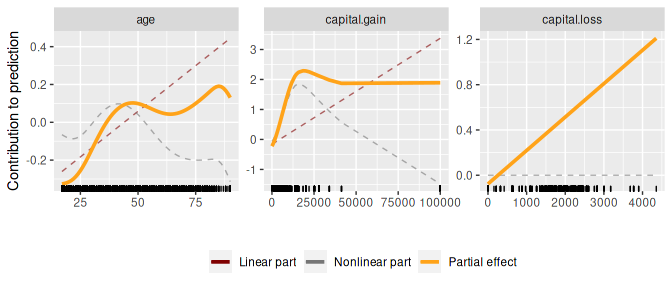
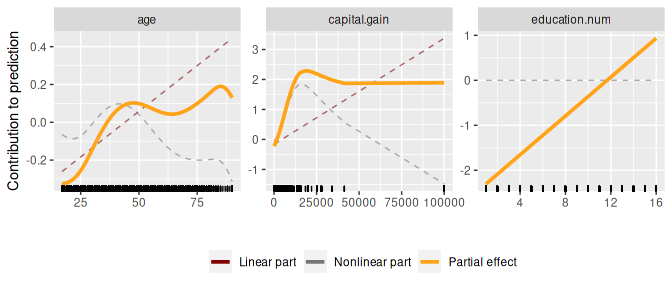
update README

diff --git a/README.md b/README.md
@@ -8,9 +8,9 @@
 ``` r
 # Use adult task from OpenML:
 task = tsk("oml", task_id = 7592)
-#> INFO  [15:28:48.995] Retrieving JSON {url: https://www.openml.org/api/v1/json/task/7592, authenticated: FALSE}
-#> INFO  [15:28:49.239] Retrieving JSON {url: https://www.openml.org/api/v1/json/data/1590, authenticated: FALSE}
-#> INFO  [15:28:49.311] Retrieving ARFF {url: https://www.openml.org/data/v1/download/1595261/adult.arff, authenticated: FALSE}
+#> INFO  [10:41:34.267] Retrieving JSON {url: https://www.openml.org/api/v1/json/task/7592, authenticated: FALSE}
+#> INFO  [10:41:34.461] Retrieving JSON {url: https://www.openml.org/api/v1/json/data/1590, authenticated: FALSE}
+#> INFO  [10:41:34.541] Retrieving ARFF {url: https://www.openml.org/data/v1/download/1595261/adult.arff, authenticated: FALSE}
 
 # Remove rows with missings:
 task$filter(which(complete.cases(task$data())))
@@ -28,7 +28,7 @@ cboost$train(task)
 #>  3750/50000   risk = 0.36  minutes = 0   oob_risk = 0.35   
 #> 
 #> 
-#> Train 4536 iterations in 17 Seconds.
+#> Train 4536 iterations in 15 Seconds.
 #> Final risk based on the train set: 0.36
 #> 
 #>     1/50000   risk = 0.36  minutes = 0   oob_risk = 0.35   
@@ -39,31 +39,31 @@ cboost$train(task)
 #> 
 #> Start risk: 0.3533  test: 0.3413 
 #> Tree 1: train risk: 0.3533 test risk: 0.3413 time: 0 Min. patience: 0
-#> Tree 2: train risk: 0.3533 test risk: 0.3413 time: 0.01 Min. patience: 0
+#> Tree 2: train risk: 0.3533 test risk: 0.3413 time: 0 Min. patience: 0
 #> Tree 3: train risk: 0.3533 test risk: 0.3413 time: 0.01 Min. patience: 0
-#> Tree 4: train risk: 0.3533 test risk: 0.3413 time: 0.02 Min. patience: 0
+#> Tree 4: train risk: 0.3533 test risk: 0.3413 time: 0.01 Min. patience: 0
 #> Tree 5: train risk: 0.3533 test risk: 0.3413 time: 0.02 Min. patience: 0
 #> Tree 6: train risk: 0.3533 test risk: 0.3413 time: 0.02 Min. patience: 0
 #> Tree 7: train risk: 0.3533 test risk: 0.3413 time: 0.03 Min. patience: 0
-#> Tree 8: train risk: 0.3533 test risk: 0.3413 time: 0.04 Min. patience: 0
-#> Tree 9: train risk: 0.3533 test risk: 0.3413 time: 0.04 Min. patience: 0
+#> Tree 8: train risk: 0.3533 test risk: 0.3413 time: 0.03 Min. patience: 0
+#> Tree 9: train risk: 0.3533 test risk: 0.3413 time: 0.03 Min. patience: 0
 #> Tree 10: train risk: 0.3533 test risk: 0.3413 time: 0.04 Min. patience: 0
-#> Tree 11: train risk: 0.3533 test risk: 0.3413 time: 0.05 Min. patience: 0
+#> Tree 11: train risk: 0.3533 test risk: 0.3413 time: 0.04 Min. patience: 0
 #> Tree 12: train risk: 0.3533 test risk: 0.3413 time: 0.05 Min. patience: 0
 #> Tree 13: train risk: 0.3533 test risk: 0.3413 time: 0.05 Min. patience: 0
-#> Tree 14: train risk: 0.3533 test risk: 0.3413 time: 0.06 Min. patience: 0
+#> Tree 14: train risk: 0.3533 test risk: 0.3413 time: 0.05 Min. patience: 0
 #> Tree 15: train risk: 0.3533 test risk: 0.3413 time: 0.06 Min. patience: 0
-#> Tree 16: train risk: 0.3533 test risk: 0.3413 time: 0.07 Min. patience: 0
-#> Tree 17: train risk: 0.3533 test risk: 0.3413 time: 0.07 Min. patience: 0
-#> Tree 18: train risk: 0.3533 test risk: 0.3413 time: 0.08 Min. patience: 0
-#> Tree 19: train risk: 0.3533 test risk: 0.3413 time: 0.08 Min. patience: 0
-#> Tree 20: train risk: 0.3534 test risk: 0.3413 time: 0.09 Min. patience: 0
-#> Tree 21: train risk: 0.3534 test risk: 0.3413 time: 0.09 Min. patience: 0
-#> Tree 22: train risk: 0.3534 test risk: 0.3413 time: 0.09 Min. patience: 0
-#> Tree 23: train risk: 0.3534 test risk: 0.3413 time: 0.1 Min. patience: 0
-#> Tree 24: train risk: 0.3534 test risk: 0.3413 time: 0.1 Min. patience: 0
-#> Tree 25: train risk: 0.3534 test risk: 0.3413 time: 0.11 Min. patience: 1
-#> Tree 26: train risk: 0.3534 test risk: 0.3413 time: 0.11 Min. patience: 2
+#> Tree 16: train risk: 0.3533 test risk: 0.3413 time: 0.06 Min. patience: 0
+#> Tree 17: train risk: 0.3533 test risk: 0.3413 time: 0.06 Min. patience: 0
+#> Tree 18: train risk: 0.3533 test risk: 0.3413 time: 0.07 Min. patience: 0
+#> Tree 19: train risk: 0.3533 test risk: 0.3413 time: 0.07 Min. patience: 0
+#> Tree 20: train risk: 0.3534 test risk: 0.3413 time: 0.08 Min. patience: 0
+#> Tree 21: train risk: 0.3534 test risk: 0.3413 time: 0.08 Min. patience: 0
+#> Tree 22: train risk: 0.3534 test risk: 0.3413 time: 0.08 Min. patience: 0
+#> Tree 23: train risk: 0.3534 test risk: 0.3413 time: 0.09 Min. patience: 0
+#> Tree 24: train risk: 0.3534 test risk: 0.3413 time: 0.09 Min. patience: 0
+#> Tree 25: train risk: 0.3534 test risk: 0.3413 time: 0.1 Min. patience: 1
+#> Tree 26: train risk: 0.3534 test risk: 0.3413 time: 0.1 Min. patience: 2
 ```
 
 ### Information about the stages:
@@ -154,7 +154,7 @@ plotCategorical(c("marital.status", "relationship", "occupation"), pe_cat) +
 ``` r
 
 # Visualize numerical features:
-plotNumeric(c("capital.gain", "age", "capital.loss"), pe_numeric) +
+plotNumeric(c("education.num", "capital.gain", "age"), pe_numeric) +
   ggsci::scale_color_uchicago()
 ```
 
@@ -192,3 +192,123 @@ ggplot() +
 ```
 
 ![](README-figures/unnamed-chunk-7-1.png)<!-- -->
+
+#### Prediction decomposition
+
+``` r
+# "new observation"
+newdata = task$data()[1234,]
+
+p_uni = cboost$model$univariate$predictIndividual(newdata)
+p_int = cboost$model$interactions$predictIndividual(newdata)
+p_int$offset = NULL
+
+df_new = newdata
+df_new$residuals = 0
+tsk_new = TaskRegr$new(id = "residuals", backend = df_new, target = "residuals")
+p_trees = predict.residualBooster(cboost$model$deeper_interactions, tsk_new)
+
+
+
+p = c(p_uni, p_int, other = p_trees)
+
+df_plt = data.frame(blearner = names(p), value = unlist(p),
+  stage = rep(c("Univariate", "Pairwise interactions", "Deep trees"), times = c(length(p_uni), length(p_int), 1)))
+df_plt$blearner = factor(df_plt$blearner, levels = rev(df_plt$blearner))
+df_plt$stage = factor(df_plt$stage, levels = c("Univariate", "Pairwise interactions", "Deep trees"))
+df_plt$bl_num = rev(seq_along(df_plt$blearner))
+
+fnames = c("offset", "other", task$feature_names)
+fidx = t(do.call(rbind, lapply(fnames, function(feat) grepl(feat, df_plt$blearner))))
+
+apply(fidx, 1, function(idx) fnames[idx])
+#> [[1]]
+#> [1] "age"
+#> 
+#> [[2]]
+#> [1] "age"
+#> 
+#> [[3]]
+#> [1] "capital.gain"
+#> 
+#> [[4]]
+#> [1] "capital.gain"
+#> 
+#> [[5]]
+#> [1] "capital.loss"
+#> 
+#> [[6]]
+#> [1] "education"     "education.num"
+#> 
+#> [[7]]
+#> [1] "hours.per.week"
+#> 
+#> [[8]]
+#> [1] "marital.status"
+#> 
+#> [[9]]
+#> [1] "occupation"
+#> 
+#> [[10]]
+#> [1] "offset"
+#> 
+#> [[11]]
+#> [1] "relationship"
+#> 
+#> [[12]]
+#> [1] "age"          "capital.gain"
+#> 
+#> [[13]]
+#> [1] "age"          "capital.loss"
+#> 
+#> [[14]]
+#> [1] "age"           "education"     "education.num"
+#> 
+#> [[15]]
+#> [1] "capital.gain"  "education"     "education.num"
+#> 
+#> [[16]]
+#> [1] "capital.gain"   "hours.per.week"
+#> 
+#> [[17]]
+#> [1] "other"
+
+flab = character(nrow(fidx))
+for (i in seq_len(nrow(fidx))) {
+  feats = fnames[fidx[i, ]]
+
+  if (length(feats) > 2) {
+    df_char = data.frame(f = feats, n = nchar(feats))
+    df_char = df_char[order(df_char$n, decreasing = TRUE), ]
+    df_char$count = sapply(df_char$f, function(fn) sum(grepl(fn, df_char$f)))
+    feats = df_char$f[df_char$count == 1]
+  }
+  if (length(feats) == 2)
+    flab[i] = paste0("Interaction: ", paste(feats, collapse = ", "))
+  else
+    flab[i] = feats
+}
+flab[flab == "other"] = "Deep trees"
+df_plt$feat = flab
+df_plt0 = df_plt %>%
+  group_by(feat) %>%
+  summarize(value = sum(value), stage = stage[1]) %>%
+  ungroup() %>%
+  arrange(desc(stage)) %>%
+  mutate(bl_num = seq_along(value))
+
+ggplot(df_plt0, aes(x = value, y = bl_num, color = stage, fill = stage)) +
+  geom_vline(xintercept = 0, color = "dark grey", alpha = 0.6) +
+  geom_segment(aes(xend = 0, yend = bl_num)) +
+  geom_point() +
+  ylab("") +
+  xlab("Contribution to predicted value") +
+  labs(color = "", fill = "") +
+  ggsci::scale_fill_uchicago() +
+  ggsci::scale_color_uchicago() +
+  #scale_y_reverse() +
+  scale_y_continuous(labels = df_plt0$feat, breaks = df_plt0$bl_num) +
+  theme_minimal()
+```
+
+![](README-figures/unnamed-chunk-8-1.png)<!-- -->
